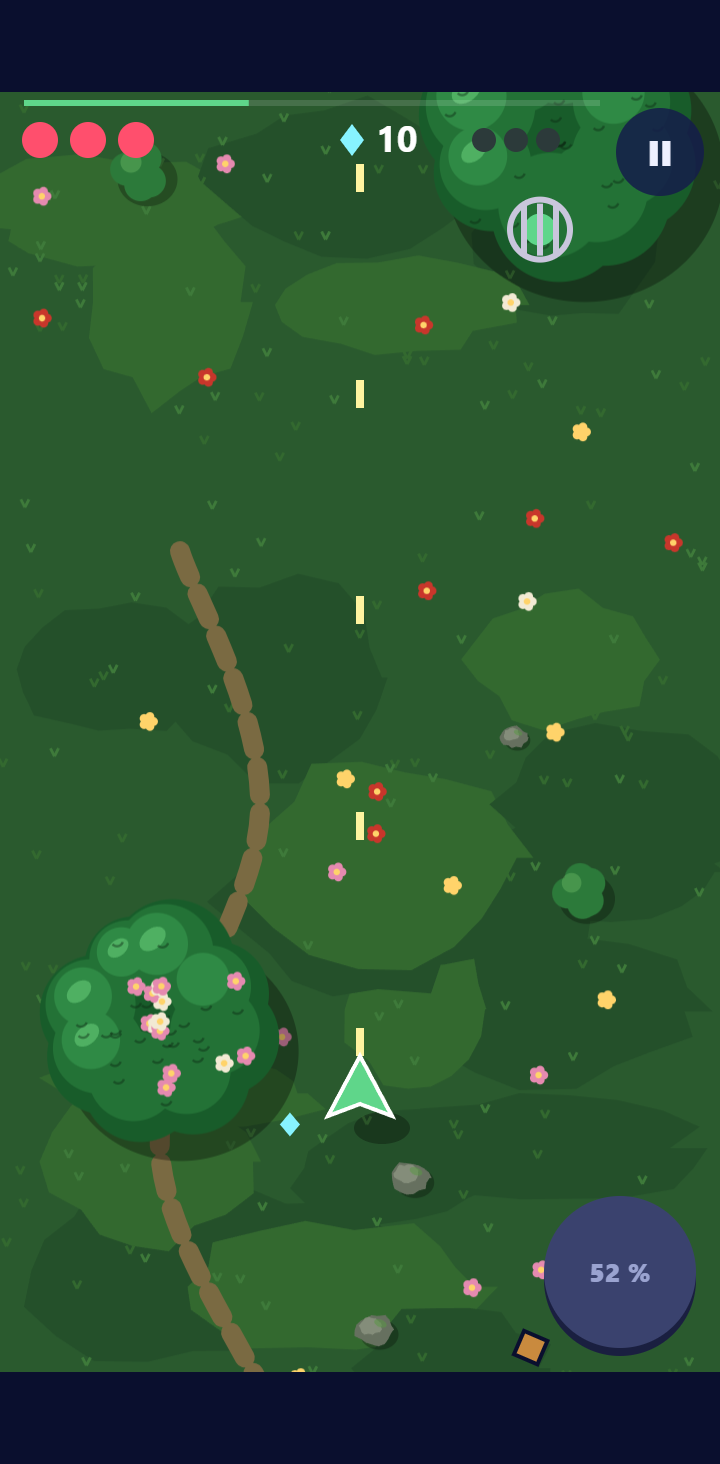
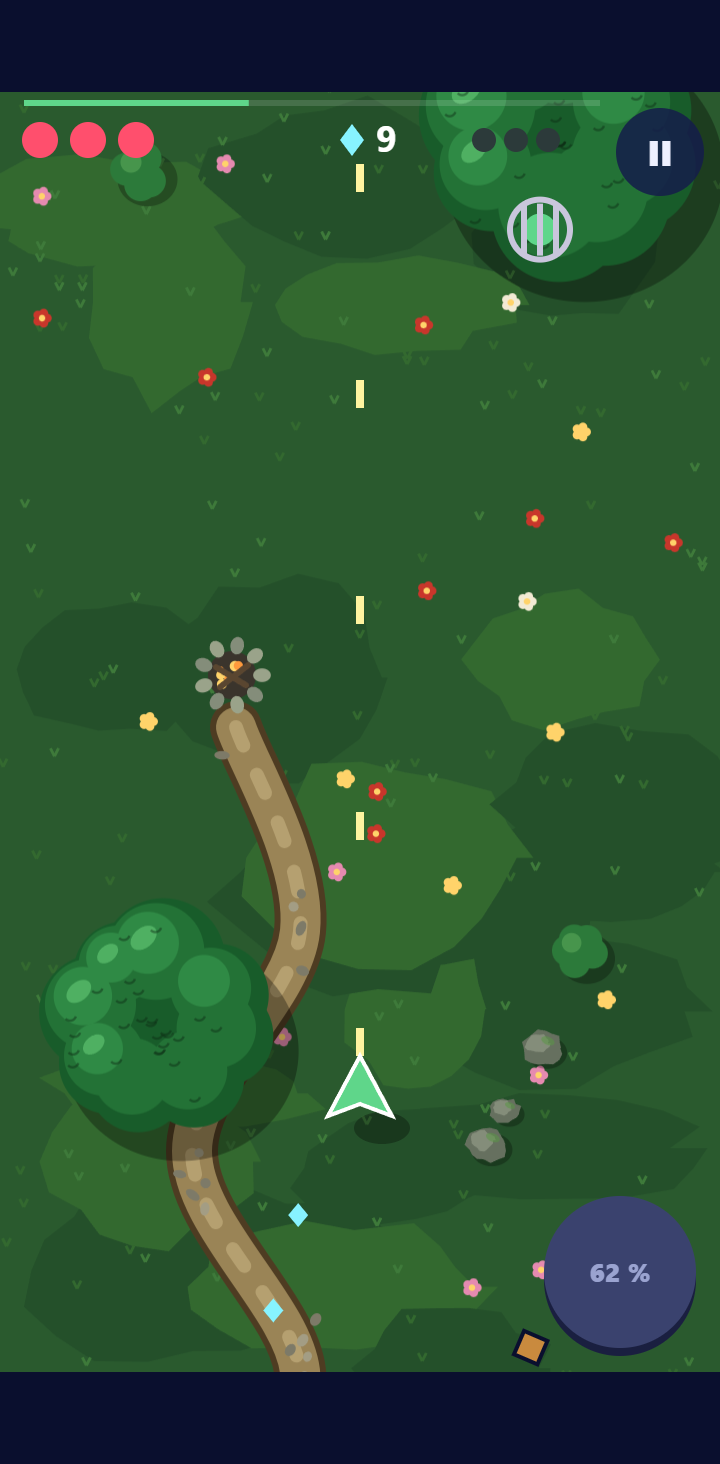
Sentier et racines qu'on comprend sans explication (patrouille-1.2.0)
Ce qui n'allait pas : le sentier de la lisière, en tirets fins, ressemblait à une liane
posée par terre. Les racines du marais ne partaient de rien et passaient pour des
branches ; une fois autour d'une souche, elles ressemblaient à des pattes d'araignée.

- Le sentier est un chemin de terre large, bordé et caillouteux. Il va de la hutte au
  toit de chaume jusqu'au feu de camp.
- Les racines partent de grosses souches, surtout vers les mares. Elles sont inégales,
  sombres et s'enfoncent dans l'herbe.

diff --git a/tools/poc/patrouille-jeu.html b/tools/poc/patrouille-jeu.html
@@ -1902,6 +1902,50 @@ function cime(x, r, cx, cy, R, coul) { // la cime d'un arbre géant, tout en bas
 function liane(x, r, pts) { trait(x, pts, 3, '#2a4a20'); for (let k = 1; k < pts.length; k++) { const [a, b] = pts[k]; x.fillStyle = '#3f7a3a'; x.beginPath(); x.ellipse(a + 5, b, 5, 2.6, 0.6, 0, Math.PI * 2); x.fill(); x.beginPath(); x.ellipse(a - 5, b + 4, 5, 2.6, -0.6, 0, Math.PI * 2); x.fill(); } }
 function roseaux(x, r, cx, cy, n) { x.strokeStyle = '#6a8a3a'; x.lineWidth = 1.6; for (let k = 0; k < n; k++) { const px = cx + (r() - 0.5) * 30, py = cy + (r() - 0.5) * 20; x.beginPath(); x.moveTo(px, py); x.lineTo(px + (r() - 0.5) * 6, py - 7 - r() * 5); x.stroke(); } }
 
+function hutte(x, r, cx, cy) { // la hutte d'un explorateur, vue de haut : un toit de chaume rond
+  ombre(x, cx, cy, 30, 28);
+  x.fillStyle = '#b08a45'; x.beginPath(); x.arc(cx, cy, 30, 0, Math.PI * 2); x.fill();
+  x.fillStyle = '#c9a35a'; x.beginPath(); x.arc(cx - 3, cy - 3, 24, 0, Math.PI * 2); x.fill();
+  x.strokeStyle = 'rgba(110,80,35,.6)'; x.lineWidth = 1.4;
+  for (let k = 0; k < 28; k++) { const a = k / 28 * Math.PI * 2; x.beginPath(); x.moveTo(cx + Math.cos(a) * 6, cy + Math.sin(a) * 6); x.lineTo(cx + Math.cos(a) * 29, cy + Math.sin(a) * 29); x.stroke(); }
+  x.fillStyle = '#7a5a36'; x.beginPath(); x.arc(cx, cy, 6, 0, Math.PI * 2); x.fill();
+  x.fillStyle = 'rgba(255,240,200,.25)'; x.beginPath(); x.arc(cx - 10, cy - 10, 9, 0, Math.PI * 2); x.fill();
+}
+function feuDeCamp(x, r, cx, cy) { // un rond de pierres, la cendre et quelques braises : on était là
+  x.fillStyle = '#3a342c'; x.beginPath(); x.arc(cx, cy, 12, 0, Math.PI * 2); x.fill();
+  for (let k = 0; k < 9; k++) { const a = k / 9 * Math.PI * 2; x.fillStyle = k % 2 ? '#848d7a' : '#9aa38a'; x.beginPath(); x.ellipse(cx + Math.cos(a) * 15, cy + Math.sin(a) * 15, 4.4, 3.4, a, 0, Math.PI * 2); x.fill(); }
+  for (let k = 0; k < 6; k++) { x.fillStyle = k % 2 ? '#ff9a3c' : '#ffd36a'; x.beginPath(); x.arc(cx + (r() - 0.5) * 12, cy + (r() - 0.5) * 12, 1.6 + r() * 1.4, 0, Math.PI * 2); x.fill(); }
+  x.strokeStyle = '#5a4630'; x.lineWidth = 3; x.lineCap = 'round'; x.beginPath(); x.moveTo(cx - 8, cy - 4); x.lineTo(cx + 7, cy + 5); x.moveTo(cx - 6, cy + 6); x.lineTo(cx + 8, cy - 5); x.stroke();
+}
+function racine(x, r, pts, larg) { // épaisse au départ, fine au bout, à moitié dans la terre
+  for (let i = 0; i < pts.length - 1; i++) {
+    const t = i / (pts.length - 1);
+    x.globalAlpha = 1 - t * 0.55; // elle s'enfonce dans le sol en s'éloignant
+    x.strokeStyle = '#3e2f1e'; x.lineWidth = larg * (1 - t * 0.8) + 1.5; x.lineCap = 'round';
+    x.beginPath(); x.moveTo(...pts[i]); x.lineTo(...pts[i + 1]); x.stroke();
+    x.strokeStyle = '#5e4630'; x.lineWidth = Math.max(1, larg * (1 - t * 0.8) * 0.3);
+    x.beginPath(); x.moveTo(pts[i][0] - 1, pts[i][1] - 1); x.lineTo(pts[i + 1][0] - 1, pts[i + 1][1] - 1); x.stroke();
+  }
+  x.globalAlpha = 1;
+}
+// Une grosse souche vue de haut. Ses racines, peu nombreuses et inégales, partent surtout vers
+// la mare (vers, en radians) : régulières tout autour, elles faisaient des pattes d'araignée.
+function souche(x, r, cx, cy, R, vers) {
+  const angles = [vers - 0.5, vers, vers + 0.45, vers + 2.4, vers - 2.2];
+  angles.forEach((a0, k) => {
+    const l = R * (k < 3 ? 2.4 + r() * 1.4 : 1 + r() * 0.6), courbe = (r() - 0.5) * 1.2;
+    const pts = []; for (let j = 0; j <= 7; j++) { const t = j / 7, aa = a0 + courbe * t + Math.sin(t * 6 + k) * 0.12; pts.push([cx + Math.cos(aa) * (R * 0.75 + l * t), cy + Math.sin(aa) * (R * 0.75 + l * t)]); }
+    racine(x, r, pts, R * (k < 3 ? 0.42 : 0.3));
+    if (k === 1) { x.fillStyle = 'rgba(90,150,70,.55)'; const [mx, my] = pts[2]; x.beginPath(); x.ellipse(mx, my, 7, 3, a0, 0, Math.PI * 2); x.fill(); } // mousse
+  });
+  for (let k = 0; k < 10; k++) { const a = r() * Math.PI * 2, d = R * (1 + r() * 0.8); x.strokeStyle = '#2d6b3b'; x.lineWidth = 1.4; const px = cx + Math.cos(a) * d, py = cy + Math.sin(a) * d; x.beginPath(); x.moveTo(px, py); x.lineTo(px - 2, py - 4); x.moveTo(px, py); x.lineTo(px + 2, py - 4); x.stroke(); } // l'herbe pousse sur les racines
+  ombre(x, cx, cy, R, R);
+  x.fillStyle = '#4e3824'; x.beginPath(); x.arc(cx, cy, R, 0, Math.PI * 2); x.fill();
+  x.fillStyle = '#9a7a4e'; x.beginPath(); x.arc(cx - 2, cy - 2, R * 0.78, 0, Math.PI * 2); x.fill();
+  x.strokeStyle = '#7a5e3a'; x.lineWidth = 1.3; for (let k = 1; k <= 3; k++) { x.beginPath(); x.arc(cx - 2 + k * 0.6, cy - 2, R * 0.78 * k / 4, 0, Math.PI * 2); x.stroke(); }
+  x.fillStyle = 'rgba(90,150,70,.75)'; x.beginPath(); x.ellipse(cx + R * 0.3, cy - R * 0.45, R * 0.5, R * 0.28, 0.5, 0, Math.PI * 2); x.fill();
+}
+
 // ---------- les tuiles ----------
 // Le sol de base : la couleur de la mission en taches, des touffes d'herbe, des fleurs
 function sol(x, r, pal, fleurs) {
@@ -1922,7 +1966,15 @@ function riviere(x, r, ondule, larg = 50) {
 // Un chemin ou une route reste DANS sa tuile : sinon il serait coupé net au raccord.
 const TUILES = {
   prairie(x, r, d) { sol(x, r, d.pal, 40); for (let k = 0; k < 6; k++) buisson(x, r, 30 + r() * (W - 60), 40 + r() * (TH - 80), 10 + r() * 8, '#2c7a3a'); },
-  sentier(x, r, d) { sol(x, r, d.pal, 26); trait(x, [[90, 30], [130, 160], [80, 330], [150, 500], [110, TH - 30]], 10, '#7a6a42', [14, 9]); for (let k = 0; k < 4; k++) rocher(x, r, 170 + r() * 150, 60 + r() * (TH - 120), 6 + r() * 5); buisson(x, r, 290, 200, 14, '#2c7a3a'); },
+  sentier(x, r, d) { // un vrai chemin : il part de la hutte et monte jusqu'au feu de camp
+    sol(x, r, d.pal, 26);
+    const chemin = [[118, 118], [150, 220], [96, 330], [150, 440], [120, 528]];
+    trait(x, chemin, 26, '#4e3c22'); trait(x, chemin, 20, '#9a8456'); trait(x, chemin, 7, '#b5a070', [10, 16]);
+    for (let k = 0; k < 18; k++) { const t = r(), q = chemin[Math.min(chemin.length - 1, Math.floor(t * (chemin.length - 1)) + (r() < 0.5 ? 0 : 1))]; x.fillStyle = r() < 0.5 ? '#7d7a68' : '#a39d84'; x.beginPath(); x.ellipse(q[0] + (r() - 0.5) * 16, q[1] + (r() - 0.5) * 60, 2 + r() * 2, 1.6 + r(), r() * 3, 0, Math.PI * 2); x.fill(); } // cailloux
+    hutte(x, r, 120, 560); feuDeCamp(x, r, 116, 92);
+    for (let k = 0; k < 4; k++) rocher(x, r, 200 + r() * 130, 80 + r() * (TH - 160), 6 + r() * 5);
+    buisson(x, r, 290, 230, 14, '#2c7a3a'); buisson(x, r, 40, 250, 11, '#2c7a3a');
+  },
   etang(x, r, d) { sol(x, r, d.pal, 24); etang(x, r, 230, 300, 70, 50); roseaux(x, r, 170, 270, 12); roseaux(x, r, 290, 350, 10); buisson(x, r, 70, 480, 15, '#2c7a3a'); },
   fougeres(x, r, d) { sol(x, r, d.pal, 6); for (let k = 0; k < 22; k++) fougere(x, r, 20 + r() * (W - 40), 20 + r() * (TH - 40), 12 + r() * 10); for (let k = 0; k < 3; k++) rocher(x, r, 30 + r() * (W - 60), 50 + r() * (TH - 100), 7 + r() * 4); },
   tronc(x, r, d) { sol(x, r, d.pal, 6); tronc(x, 170, 260, 150, 0.4); tronc(x, 260, 470, 90, -0.6); for (let k = 0; k < 12; k++) fougere(x, r, 20 + r() * (W - 40), 20 + r() * (TH - 40), 10 + r() * 8); },
@@ -1942,7 +1994,13 @@ const TUILES = {
   brume(x, r, d) { sol(x, r, d.pal, 0); for (let k = 0; k < 4; k++) cime(x, r, r() * W, r() * TH, 36 + r() * 20, '#163f22'); for (let k = 0; k < 4; k++) brume(x, r, r() * W, 80 + r() * (TH - 160), 140, 80); },
   lianes(x, r, d) { sol(x, r, d.pal, 0); for (let k = 0; k < 5; k++) cime(x, r, r() * W, r() * TH, 34 + r() * 18, '#163f22'); for (let k = 0; k < 4; k++) { const y = 60 + k * 150; liane(x, r, [[-10, y], [90, y + 40], [200, y + 10], [W + 10, y + 50]]); } },
   marais(x, r, d) { sol(x, r, d.pal, 4); for (let k = 0; k < 5; k++) eau(x, r, 30 + r() * (W - 60), 50 + r() * (TH - 100), 30 + r() * 30, 18 + r() * 16, '#4a3d24'); for (let k = 0; k < 6; k++) nenuphar(x, r() * W, r() * TH, 6 + r() * 4, r() * 6); for (let k = 0; k < 6; k++) roseaux(x, r, r() * W, r() * TH, 10); },
-  racines(x, r, d) { sol(x, r, d.pal, 4); for (let k = 0; k < 9; k++) { const cx = r() * W, cy = r() * TH; for (let j = 0; j < 4; j++) { const a = r() * 6; trait(x, [[cx, cy], [cx + Math.cos(a) * 30, cy + Math.sin(a) * 30 + 8], [cx + Math.cos(a) * 60, cy + Math.sin(a) * 60]], 4, '#5a4630'); } } eau(x, r, 120, 360, 50, 28, '#4a3d24'); },
+  racines(x, r, d) { // les racines partent de grosses souches et plongent dans les mares
+    sol(x, r, d.pal, 4);
+    eau(x, r, 70, 300, 46, 26, '#4a3d24'); eau(x, r, 300, 250, 40, 24, '#4a3d24'); eau(x, r, 190, 560, 56, 28, '#4a3d24');
+    souche(x, r, 130, 250, 24, Math.atan2(300 - 250, 70 - 130)); souche(x, r, 250, 430, 20, Math.atan2(560 - 430, 190 - 250));
+    for (let k = 0; k < 5; k++) nenuphar(x, r() * W, r() * TH, 6 + r() * 4, r() * 6);
+    roseaux(x, r, 60, 280, 10); roseaux(x, r, 210, 540, 12);
+  },
   boue(x, r, d) { sol(x, r, d.pal, 2); for (let k = 0; k < 8; k++) tache(x, r, r() * W, r() * TH, 30 + r() * 30, 16 + r() * 14, '#4a3d24'); for (let k = 0; k < 14; k++) { x.fillStyle = 'rgba(30,20,10,.4)'; x.beginPath(); x.arc(r() * W, r() * TH, 2 + r() * 3, 0, Math.PI * 2); x.fill(); } tronc(x, 200, 300, 100, 1.1); },
   fleurs(x, r, d) { sol(x, r, d.pal, 110); for (let k = 0; k < 5; k++) buisson(x, r, r() * W, r() * TH, 12, '#2c7a3a'); },
   nid(x, r, d) { // le nid géant où dort l'astronaute doré

diff --git a/patrouille/ecran/decor.js b/patrouille/ecran/decor.js
@@ -113,6 +113,50 @@ function cime(x, r, cx, cy, R, coul) { // la cime d'un arbre géant, tout en bas
 function liane(x, r, pts) { trait(x, pts, 3, '#2a4a20'); for (let k = 1; k < pts.length; k++) { const [a, b] = pts[k]; x.fillStyle = '#3f7a3a'; x.beginPath(); x.ellipse(a + 5, b, 5, 2.6, 0.6, 0, Math.PI * 2); x.fill(); x.beginPath(); x.ellipse(a - 5, b + 4, 5, 2.6, -0.6, 0, Math.PI * 2); x.fill(); } }
 function roseaux(x, r, cx, cy, n) { x.strokeStyle = '#6a8a3a'; x.lineWidth = 1.6; for (let k = 0; k < n; k++) { const px = cx + (r() - 0.5) * 30, py = cy + (r() - 0.5) * 20; x.beginPath(); x.moveTo(px, py); x.lineTo(px + (r() - 0.5) * 6, py - 7 - r() * 5); x.stroke(); } }
 
+function hutte(x, r, cx, cy) { // la hutte d'un explorateur, vue de haut : un toit de chaume rond
+  ombre(x, cx, cy, 30, 28);
+  x.fillStyle = '#b08a45'; x.beginPath(); x.arc(cx, cy, 30, 0, Math.PI * 2); x.fill();
+  x.fillStyle = '#c9a35a'; x.beginPath(); x.arc(cx - 3, cy - 3, 24, 0, Math.PI * 2); x.fill();
+  x.strokeStyle = 'rgba(110,80,35,.6)'; x.lineWidth = 1.4;
+  for (let k = 0; k < 28; k++) { const a = k / 28 * Math.PI * 2; x.beginPath(); x.moveTo(cx + Math.cos(a) * 6, cy + Math.sin(a) * 6); x.lineTo(cx + Math.cos(a) * 29, cy + Math.sin(a) * 29); x.stroke(); }
+  x.fillStyle = '#7a5a36'; x.beginPath(); x.arc(cx, cy, 6, 0, Math.PI * 2); x.fill();
+  x.fillStyle = 'rgba(255,240,200,.25)'; x.beginPath(); x.arc(cx - 10, cy - 10, 9, 0, Math.PI * 2); x.fill();
+}
+function feuDeCamp(x, r, cx, cy) { // un rond de pierres, la cendre et quelques braises : on était là
+  x.fillStyle = '#3a342c'; x.beginPath(); x.arc(cx, cy, 12, 0, Math.PI * 2); x.fill();
+  for (let k = 0; k < 9; k++) { const a = k / 9 * Math.PI * 2; x.fillStyle = k % 2 ? '#848d7a' : '#9aa38a'; x.beginPath(); x.ellipse(cx + Math.cos(a) * 15, cy + Math.sin(a) * 15, 4.4, 3.4, a, 0, Math.PI * 2); x.fill(); }
+  for (let k = 0; k < 6; k++) { x.fillStyle = k % 2 ? '#ff9a3c' : '#ffd36a'; x.beginPath(); x.arc(cx + (r() - 0.5) * 12, cy + (r() - 0.5) * 12, 1.6 + r() * 1.4, 0, Math.PI * 2); x.fill(); }
+  x.strokeStyle = '#5a4630'; x.lineWidth = 3; x.lineCap = 'round'; x.beginPath(); x.moveTo(cx - 8, cy - 4); x.lineTo(cx + 7, cy + 5); x.moveTo(cx - 6, cy + 6); x.lineTo(cx + 8, cy - 5); x.stroke();
+}
+function racine(x, r, pts, larg) { // épaisse au départ, fine au bout, à moitié dans la terre
+  for (let i = 0; i < pts.length - 1; i++) {
+    const t = i / (pts.length - 1);
+    x.globalAlpha = 1 - t * 0.55; // elle s'enfonce dans le sol en s'éloignant
+    x.strokeStyle = '#3e2f1e'; x.lineWidth = larg * (1 - t * 0.8) + 1.5; x.lineCap = 'round';
+    x.beginPath(); x.moveTo(...pts[i]); x.lineTo(...pts[i + 1]); x.stroke();
+    x.strokeStyle = '#5e4630'; x.lineWidth = Math.max(1, larg * (1 - t * 0.8) * 0.3);
+    x.beginPath(); x.moveTo(pts[i][0] - 1, pts[i][1] - 1); x.lineTo(pts[i + 1][0] - 1, pts[i + 1][1] - 1); x.stroke();
+  }
+  x.globalAlpha = 1;
+}
+// Une grosse souche vue de haut. Ses racines, peu nombreuses et inégales, partent surtout vers
+// la mare (vers, en radians) : régulières tout autour, elles faisaient des pattes d'araignée.
+function souche(x, r, cx, cy, R, vers) {
+  const angles = [vers - 0.5, vers, vers + 0.45, vers + 2.4, vers - 2.2];
+  angles.forEach((a0, k) => {
+    const l = R * (k < 3 ? 2.4 + r() * 1.4 : 1 + r() * 0.6), courbe = (r() - 0.5) * 1.2;
+    const pts = []; for (let j = 0; j <= 7; j++) { const t = j / 7, aa = a0 + courbe * t + Math.sin(t * 6 + k) * 0.12; pts.push([cx + Math.cos(aa) * (R * 0.75 + l * t), cy + Math.sin(aa) * (R * 0.75 + l * t)]); }
+    racine(x, r, pts, R * (k < 3 ? 0.42 : 0.3));
+    if (k === 1) { x.fillStyle = 'rgba(90,150,70,.55)'; const [mx, my] = pts[2]; x.beginPath(); x.ellipse(mx, my, 7, 3, a0, 0, Math.PI * 2); x.fill(); } // mousse
+  });
+  for (let k = 0; k < 10; k++) { const a = r() * Math.PI * 2, d = R * (1 + r() * 0.8); x.strokeStyle = '#2d6b3b'; x.lineWidth = 1.4; const px = cx + Math.cos(a) * d, py = cy + Math.sin(a) * d; x.beginPath(); x.moveTo(px, py); x.lineTo(px - 2, py - 4); x.moveTo(px, py); x.lineTo(px + 2, py - 4); x.stroke(); } // l'herbe pousse sur les racines
+  ombre(x, cx, cy, R, R);
+  x.fillStyle = '#4e3824'; x.beginPath(); x.arc(cx, cy, R, 0, Math.PI * 2); x.fill();
+  x.fillStyle = '#9a7a4e'; x.beginPath(); x.arc(cx - 2, cy - 2, R * 0.78, 0, Math.PI * 2); x.fill();
+  x.strokeStyle = '#7a5e3a'; x.lineWidth = 1.3; for (let k = 1; k <= 3; k++) { x.beginPath(); x.arc(cx - 2 + k * 0.6, cy - 2, R * 0.78 * k / 4, 0, Math.PI * 2); x.stroke(); }
+  x.fillStyle = 'rgba(90,150,70,.75)'; x.beginPath(); x.ellipse(cx + R * 0.3, cy - R * 0.45, R * 0.5, R * 0.28, 0.5, 0, Math.PI * 2); x.fill();
+}
+
 // ---------- les tuiles ----------
 // Le sol de base : la couleur de la mission en taches, des touffes d'herbe, des fleurs
 function sol(x, r, pal, fleurs) {
@@ -133,7 +177,15 @@ function riviere(x, r, ondule, larg = 50) {
 // Un chemin ou une route reste DANS sa tuile : sinon il serait coupé net au raccord.
 const TUILES = {
   prairie(x, r, d) { sol(x, r, d.pal, 40); for (let k = 0; k < 6; k++) buisson(x, r, 30 + r() * (W - 60), 40 + r() * (TH - 80), 10 + r() * 8, '#2c7a3a'); },
-  sentier(x, r, d) { sol(x, r, d.pal, 26); trait(x, [[90, 30], [130, 160], [80, 330], [150, 500], [110, TH - 30]], 10, '#7a6a42', [14, 9]); for (let k = 0; k < 4; k++) rocher(x, r, 170 + r() * 150, 60 + r() * (TH - 120), 6 + r() * 5); buisson(x, r, 290, 200, 14, '#2c7a3a'); },
+  sentier(x, r, d) { // un vrai chemin : il part de la hutte et monte jusqu'au feu de camp
+    sol(x, r, d.pal, 26);
+    const chemin = [[118, 118], [150, 220], [96, 330], [150, 440], [120, 528]];
+    trait(x, chemin, 26, '#4e3c22'); trait(x, chemin, 20, '#9a8456'); trait(x, chemin, 7, '#b5a070', [10, 16]);
+    for (let k = 0; k < 18; k++) { const t = r(), q = chemin[Math.min(chemin.length - 1, Math.floor(t * (chemin.length - 1)) + (r() < 0.5 ? 0 : 1))]; x.fillStyle = r() < 0.5 ? '#7d7a68' : '#a39d84'; x.beginPath(); x.ellipse(q[0] + (r() - 0.5) * 16, q[1] + (r() - 0.5) * 60, 2 + r() * 2, 1.6 + r(), r() * 3, 0, Math.PI * 2); x.fill(); } // cailloux
+    hutte(x, r, 120, 560); feuDeCamp(x, r, 116, 92);
+    for (let k = 0; k < 4; k++) rocher(x, r, 200 + r() * 130, 80 + r() * (TH - 160), 6 + r() * 5);
+    buisson(x, r, 290, 230, 14, '#2c7a3a'); buisson(x, r, 40, 250, 11, '#2c7a3a');
+  },
   etang(x, r, d) { sol(x, r, d.pal, 24); etang(x, r, 230, 300, 70, 50); roseaux(x, r, 170, 270, 12); roseaux(x, r, 290, 350, 10); buisson(x, r, 70, 480, 15, '#2c7a3a'); },
   fougeres(x, r, d) { sol(x, r, d.pal, 6); for (let k = 0; k < 22; k++) fougere(x, r, 20 + r() * (W - 40), 20 + r() * (TH - 40), 12 + r() * 10); for (let k = 0; k < 3; k++) rocher(x, r, 30 + r() * (W - 60), 50 + r() * (TH - 100), 7 + r() * 4); },
   tronc(x, r, d) { sol(x, r, d.pal, 6); tronc(x, 170, 260, 150, 0.4); tronc(x, 260, 470, 90, -0.6); for (let k = 0; k < 12; k++) fougere(x, r, 20 + r() * (W - 40), 20 + r() * (TH - 40), 10 + r() * 8); },
@@ -153,7 +205,13 @@ const TUILES = {
   brume(x, r, d) { sol(x, r, d.pal, 0); for (let k = 0; k < 4; k++) cime(x, r, r() * W, r() * TH, 36 + r() * 20, '#163f22'); for (let k = 0; k < 4; k++) brume(x, r, r() * W, 80 + r() * (TH - 160), 140, 80); },
   lianes(x, r, d) { sol(x, r, d.pal, 0); for (let k = 0; k < 5; k++) cime(x, r, r() * W, r() * TH, 34 + r() * 18, '#163f22'); for (let k = 0; k < 4; k++) { const y = 60 + k * 150; liane(x, r, [[-10, y], [90, y + 40], [200, y + 10], [W + 10, y + 50]]); } },
   marais(x, r, d) { sol(x, r, d.pal, 4); for (let k = 0; k < 5; k++) eau(x, r, 30 + r() * (W - 60), 50 + r() * (TH - 100), 30 + r() * 30, 18 + r() * 16, '#4a3d24'); for (let k = 0; k < 6; k++) nenuphar(x, r() * W, r() * TH, 6 + r() * 4, r() * 6); for (let k = 0; k < 6; k++) roseaux(x, r, r() * W, r() * TH, 10); },
-  racines(x, r, d) { sol(x, r, d.pal, 4); for (let k = 0; k < 9; k++) { const cx = r() * W, cy = r() * TH; for (let j = 0; j < 4; j++) { const a = r() * 6; trait(x, [[cx, cy], [cx + Math.cos(a) * 30, cy + Math.sin(a) * 30 + 8], [cx + Math.cos(a) * 60, cy + Math.sin(a) * 60]], 4, '#5a4630'); } } eau(x, r, 120, 360, 50, 28, '#4a3d24'); },
+  racines(x, r, d) { // les racines partent de grosses souches et plongent dans les mares
+    sol(x, r, d.pal, 4);
+    eau(x, r, 70, 300, 46, 26, '#4a3d24'); eau(x, r, 300, 250, 40, 24, '#4a3d24'); eau(x, r, 190, 560, 56, 28, '#4a3d24');
+    souche(x, r, 130, 250, 24, Math.atan2(300 - 250, 70 - 130)); souche(x, r, 250, 430, 20, Math.atan2(560 - 430, 190 - 250));
+    for (let k = 0; k < 5; k++) nenuphar(x, r() * W, r() * TH, 6 + r() * 4, r() * 6);
+    roseaux(x, r, 60, 280, 10); roseaux(x, r, 210, 540, 12);
+  },
   boue(x, r, d) { sol(x, r, d.pal, 2); for (let k = 0; k < 8; k++) tache(x, r, r() * W, r() * TH, 30 + r() * 30, 16 + r() * 14, '#4a3d24'); for (let k = 0; k < 14; k++) { x.fillStyle = 'rgba(30,20,10,.4)'; x.beginPath(); x.arc(r() * W, r() * TH, 2 + r() * 3, 0, Math.PI * 2); x.fill(); } tronc(x, 200, 300, 100, 1.1); },
   fleurs(x, r, d) { sol(x, r, d.pal, 110); for (let k = 0; k < 5; k++) buisson(x, r, r() * W, r() * TH, 12, '#2c7a3a'); },
   nid(x, r, d) { // le nid géant où dort l'astronaute doré
